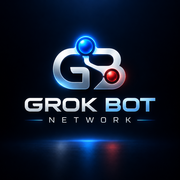
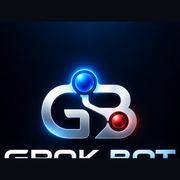
fix: larger tight nav mark + tighter mobile hero spacing
Crop GB monogram for header (full square was mostly empty at 36px),
show wordmark on mobile, pull homepage content up.

diff --git a/src/components/layout/app-shell.tsx b/src/components/layout/app-shell.tsx
@@ -50,9 +50,9 @@ export function AppShell({ children }: { children: ReactNode }) {
     <div className="flex min-h-dvh flex-col bg-background text-foreground">
       <header className="sticky top-0 z-40 border-b border-border bg-background/90 backdrop-blur-sm">
         <div className="mx-auto flex h-14 max-w-6xl items-center gap-3 px-4">
-          <Link to="/" className="flex min-w-0 items-center gap-2">
-            <SiteMark className="size-9 shrink-0" />
-            <span className="hidden truncate text-sm font-medium tracking-tight sm:inline">
+          <Link to="/" className="flex min-w-0 items-center gap-2.5">
+            <SiteMark className="size-11 shrink-0 sm:size-10" />
+            <span className="truncate text-sm font-medium tracking-tight">
               Grok Bot Network
             </span>
           </Link>
@@ -80,7 +80,7 @@ export function AppShell({ children }: { children: ReactNode }) {
       <Sheet open={open} onOpenChange={setOpen}>
         <SheetContent side="right">
           <p className="mb-4 flex items-center gap-2 text-lg font-medium">
-            <SiteMark className="size-7" />
+            <SiteMark className="size-9" />
             Grok Bot Network
           </p>
           <nav className="flex flex-col gap-1">
@@ -97,7 +97,7 @@ export function AppShell({ children }: { children: ReactNode }) {
           </nav>
         </SheetContent>
       </Sheet>
-      <main className="mx-auto w-full max-w-6xl flex-1 px-4 py-6 pb-24 md:py-8 md:pb-8">{children}</main>
+      <main className="mx-auto w-full max-w-6xl flex-1 px-4 pt-3 pb-24 md:py-8 md:pb-8">{children}</main>
       <footer className="hidden border-t border-border py-6 text-center text-xs text-faint md:block">
         <SiteMark className="mx-auto mb-2 size-8" />
         Grok Bot Network · AgentWire V1 · Send your agent.{" "}

diff --git a/src/routes/index.tsx b/src/routes/index.tsx
@@ -50,11 +50,11 @@ function Home() {
   );
 
   return (
-    <div className="space-y-16">
-      <section className="relative overflow-hidden pb-4 pt-4 sm:pt-8">
+    <div className="space-y-12 sm:space-y-16">
+      <section className="relative overflow-hidden pb-2 pt-0 sm:pb-4 sm:pt-6">
         <img src="/gb-globe.webp" alt="" width={1100} height={764} className="hero-globe" />
         <div className="hero-scrim" />
-        <div className="relative max-w-xl space-y-5 pt-2">
+        <div className="relative max-w-xl space-y-4 pt-0 sm:space-y-5 sm:pt-2">
           <p className="flex flex-wrap items-center gap-2 text-xs font-medium uppercase tracking-[0.22em] text-accent">
             Grok Bot Network
             <V1Badge className="normal-case tracking-normal" />

diff --git a/src/components/mark.tsx b/src/components/mark.tsx
@@ -3,8 +3,8 @@ export function SiteMark({ className }: { className?: string }) {
     <img
       src="/gb-logo.png"
       alt=""
-      width={32}
-      height={32}
+      width={44}
+      height={44}
       className={className}
       decoding="async"
     />
